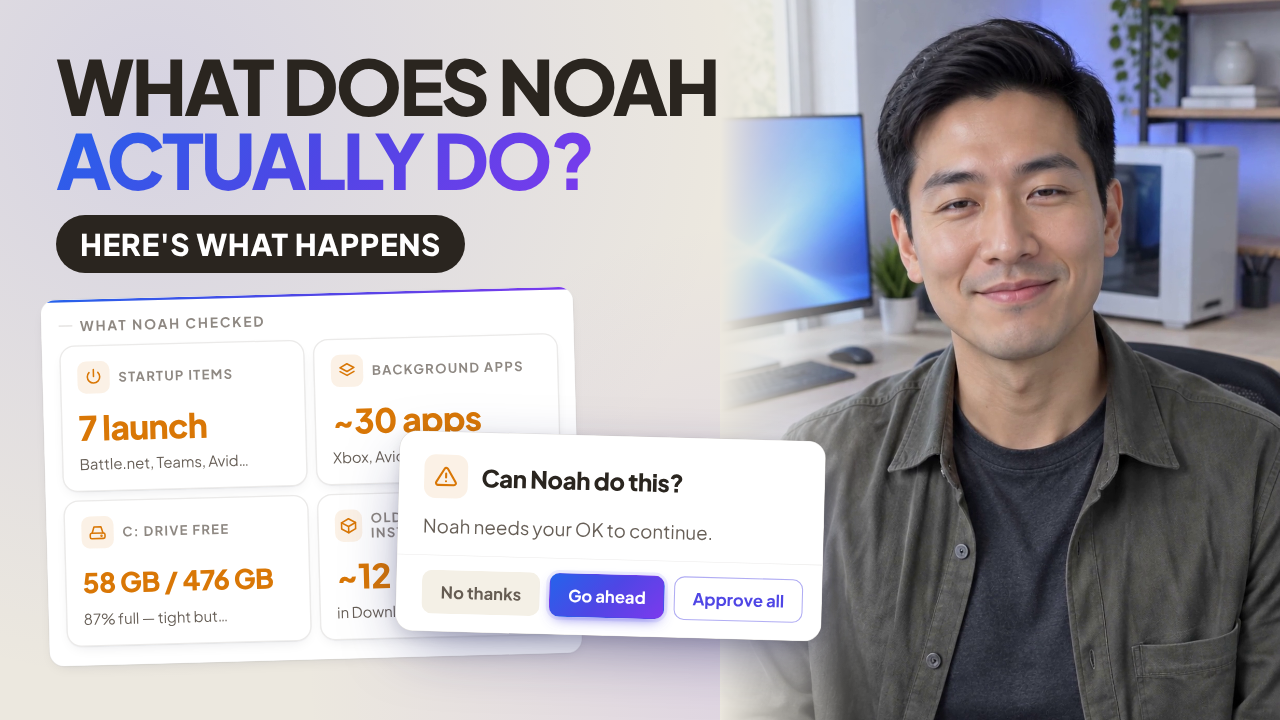
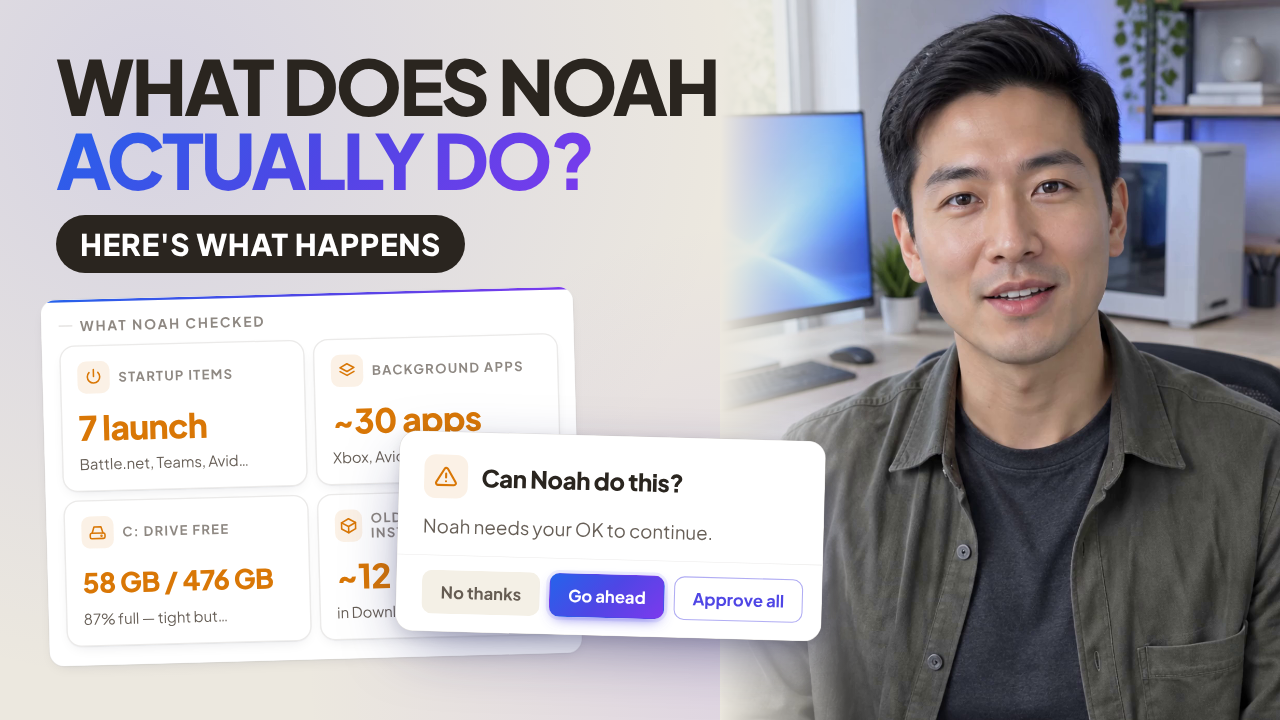
Use an open-eyed host frame for the thumbnails
The old thumbnail frame caught the host mid-smile with eyes nearly closed.
Both thumbnails now use the closing clip's first frame (eyes open, on camera);
an alternate 'curious' Shorts frame is kept as ThumbnailShortsCurious.

Claude-Session: https://claude.ai/code/session_01X2krfZep1oLnH1npCLjw8F

diff --git a/video/src/Thumbnails.tsx b/video/src/Thumbnails.tsx
@@ -29,11 +29,11 @@ const DiagnosisCard: React.FC<{ width: number; cardW: number }> = ({ width, card
   </AuroraCard>
 );
 
-export const ThumbnailShorts: React.FC = () => (
+export const ThumbnailShorts: React.FC<{ host?: string }> = ({ host = "host/thumb-host-calm.png" }) => (
   <AbsoluteFill style={{ background: C.page, fontFamily: FONT, overflow: "hidden" }}>
     {/* host, upper half */}
     <AbsoluteFill style={{ height: 1300 }}>
-      <Img src={staticFile("host/thumb-host.png")} style={{ width: 1080, height: 1920, objectFit: "cover", transform: "translateY(150px) scale(1.06)" }} />
+      <Img src={staticFile(host)} style={{ width: 1080, height: 1920, objectFit: "cover", transform: "translateY(150px) scale(1.06)" }} />
     </AbsoluteFill>
     <AbsoluteFill style={{ background: "linear-gradient(to bottom, rgba(10,12,32,.92) 0%, rgba(10,12,32,.7) 16%, rgba(10,12,32,0) 30%)" }} />
     <AbsoluteFill style={{ background: "linear-gradient(to top, #ECE8DF 0%, #ECE8DF 36%, rgba(236,232,223,.0) 58%)" }} />
@@ -102,7 +102,7 @@ export const Thumbnail16x9: React.FC = () => (
     />
     {/* host on the right */}
     <div style={{ position: "absolute", right: 0, top: 0, width: 560, height: 720, overflow: "hidden" }}>
-      <Img src={staticFile("host/thumb-host.png")} style={{ width: 560, height: 996, objectFit: "cover", transform: "translateY(-120px)" }} />
+      <Img src={staticFile("host/thumb-host-calm.png")} style={{ width: 560, height: 996, objectFit: "cover", transform: "translateY(-120px)" }} />
       <div style={{ position: "absolute", inset: 0, background: "linear-gradient(to right, #ECE8DF 0%, rgba(236,232,223,0) 28%)" }} />
     </div>
     {/* headline */}

diff --git a/video/src/Root.tsx b/video/src/Root.tsx
@@ -8,7 +8,8 @@ import { Thumbnail16x9, ThumbnailShorts } from "./Thumbnails";
 export const RemotionRoot: React.FC = () => (
   <>
     <Composition id="WhatHappens" component={WhatHappens} durationInFrames={TOTAL} fps={FPS} width={W} height={H} />
-    <Still id="ThumbnailShorts" component={ThumbnailShorts} width={1080} height={1920} />
+    <Still id="ThumbnailShorts" component={ThumbnailShorts} width={1080} height={1920} defaultProps={{ host: "host/thumb-host-calm.png" }} />
+    <Still id="ThumbnailShortsCurious" component={ThumbnailShorts} width={1080} height={1920} defaultProps={{ host: "host/thumb-host-curious.png" }} />
     <Still id="Thumbnail16x9" component={Thumbnail16x9} width={1280} height={720} />
   </>
 );

diff --git a/video/README.md b/video/README.md
@@ -9,7 +9,7 @@ npm install
 npm run audio      # regenerate SFX + music bed (scripts/make-audio.py, deterministic)
 npm run studio     # preview
 npm run render     # → ../out/noah-what-happens-when-noah-checks-pc.mp4 (loudness-normalised to -14 LUFS)
-npm run thumb      # → ../out/noah-what-happens-thumbnail.png, ../out/noah-what-happens-thumbnail-16x9.png
+npm run thumb      # → ../out/noah-what-happens-thumbnail.png, ../out/noah-what-happens-thumbnail-16x9.png (alt Shorts frame: ThumbnailShortsCurious)
 ```
 
 In the cloud container, add `--browser-executable=/opt/pw-browsers/chromium_headless_shell-1194/chrome-linux/headless_shell` to the `remotion` commands.
